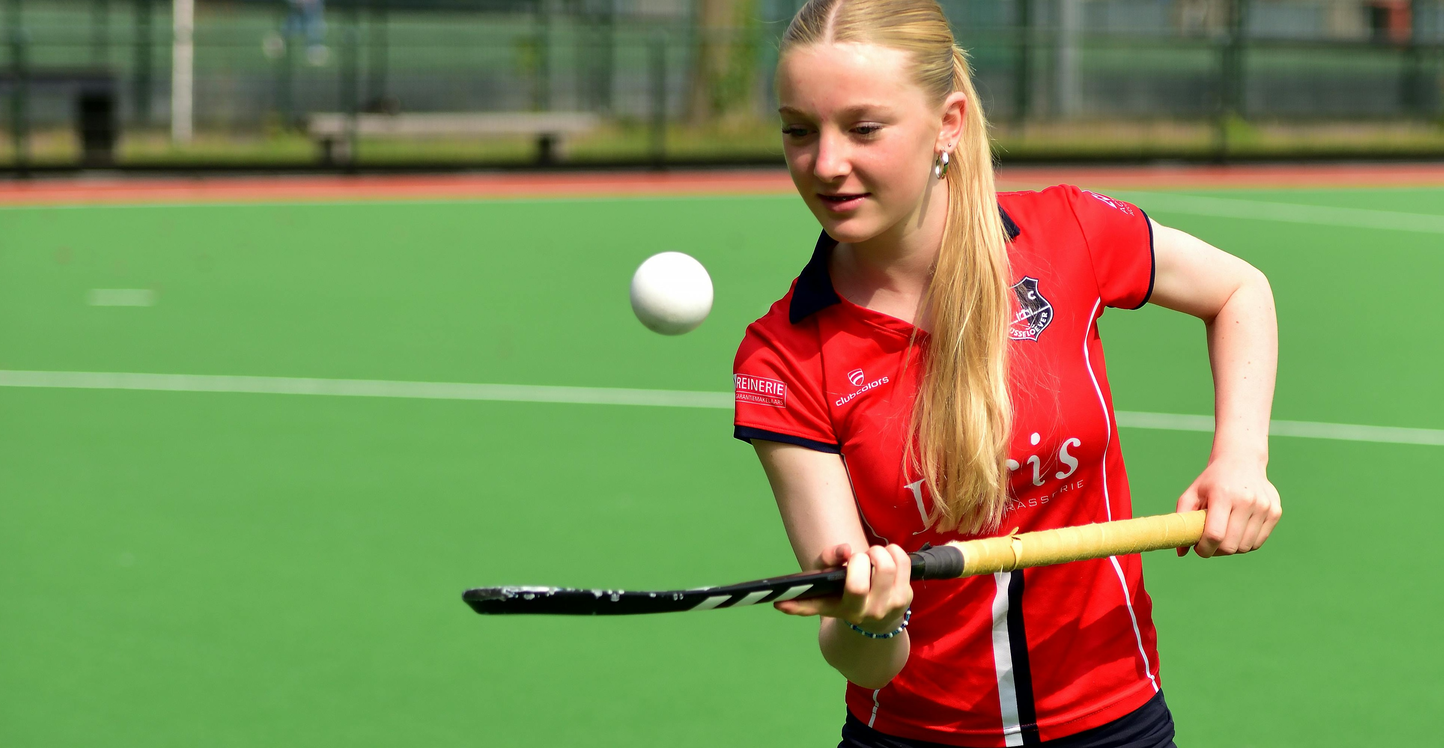
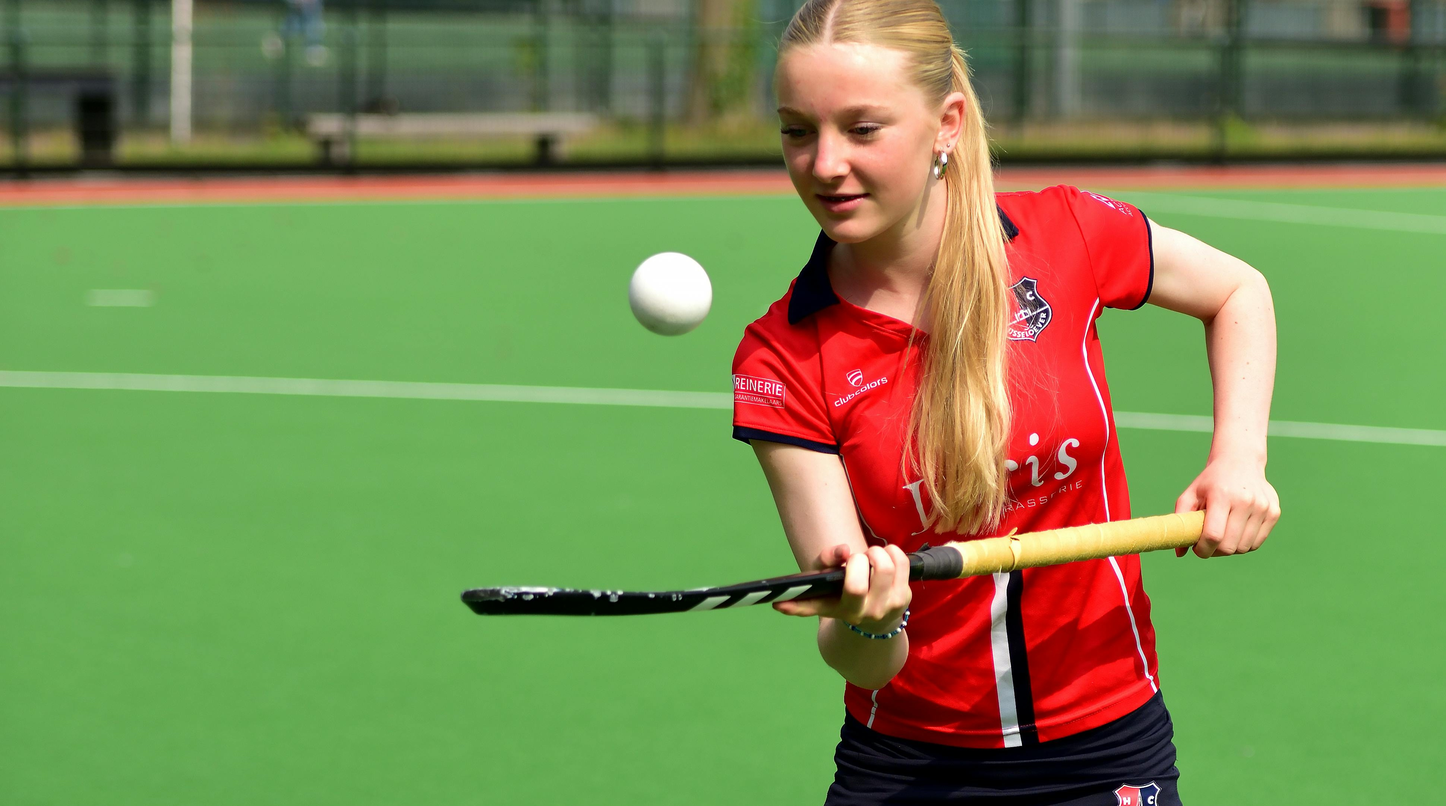
New imnage resouces

diff --git a/Homepage/HomePage.html b/Homepage/HomePage.html
@@ -26,7 +26,7 @@
        </div>
 
        <div class="Fitness">
-         <img id="Fitnessimage" src="/Users/hannahwilmot/Desktop/%20bert/Y12%20DIGI%20(2.8)/Y12-DIGITAL-2.8/Y12%20DIGI%20Image%20Resoruces%20/fitness%20image%203.jpg" width="650" height="400" alt="Fitness image">
+         <img id="Fitnessimage" src="/Users/hannahwilmot/Desktop/ bert/Y12 DIGI (2.8)/Y12-DIGITAL-2.8-(Images)/Y12 DIGI Image Resoruces /fitnessimage9.jpg" width="650" height="400" alt="Fitness image">
        </div>
 
        <div class="Mental">
